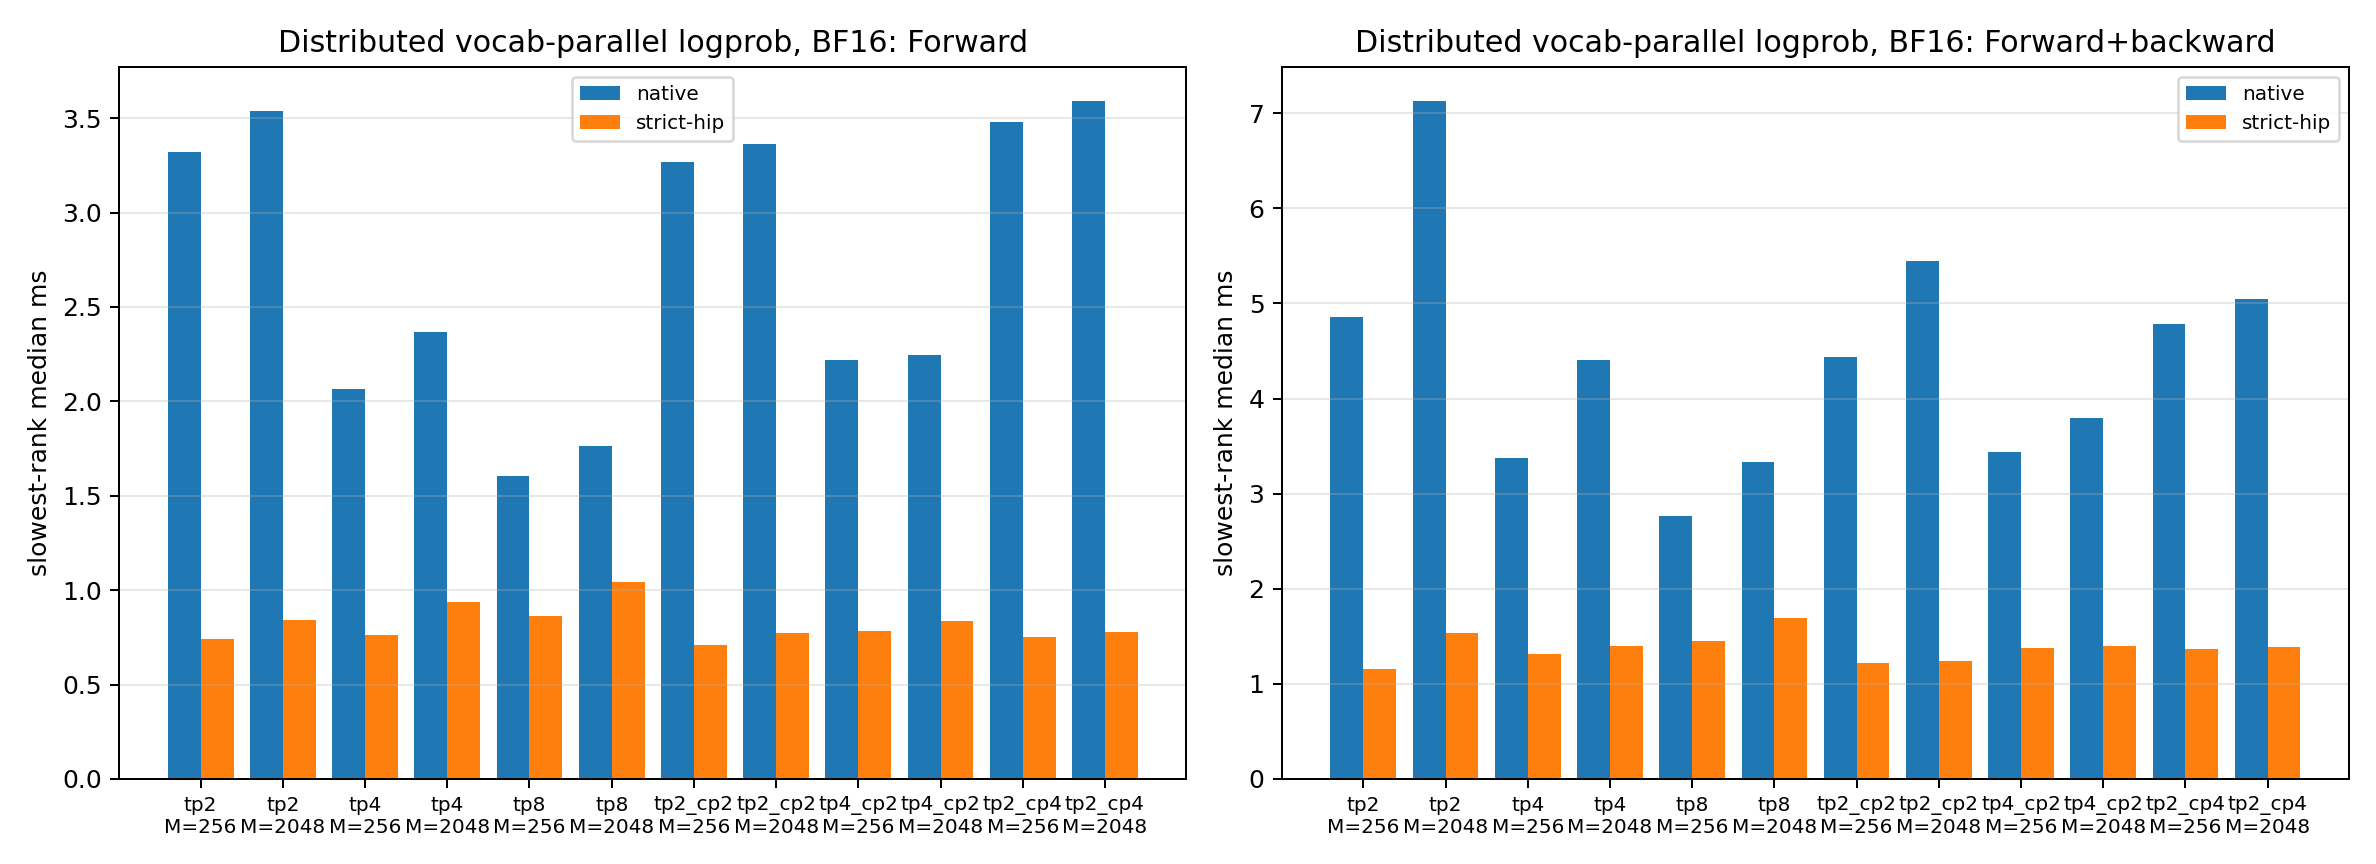
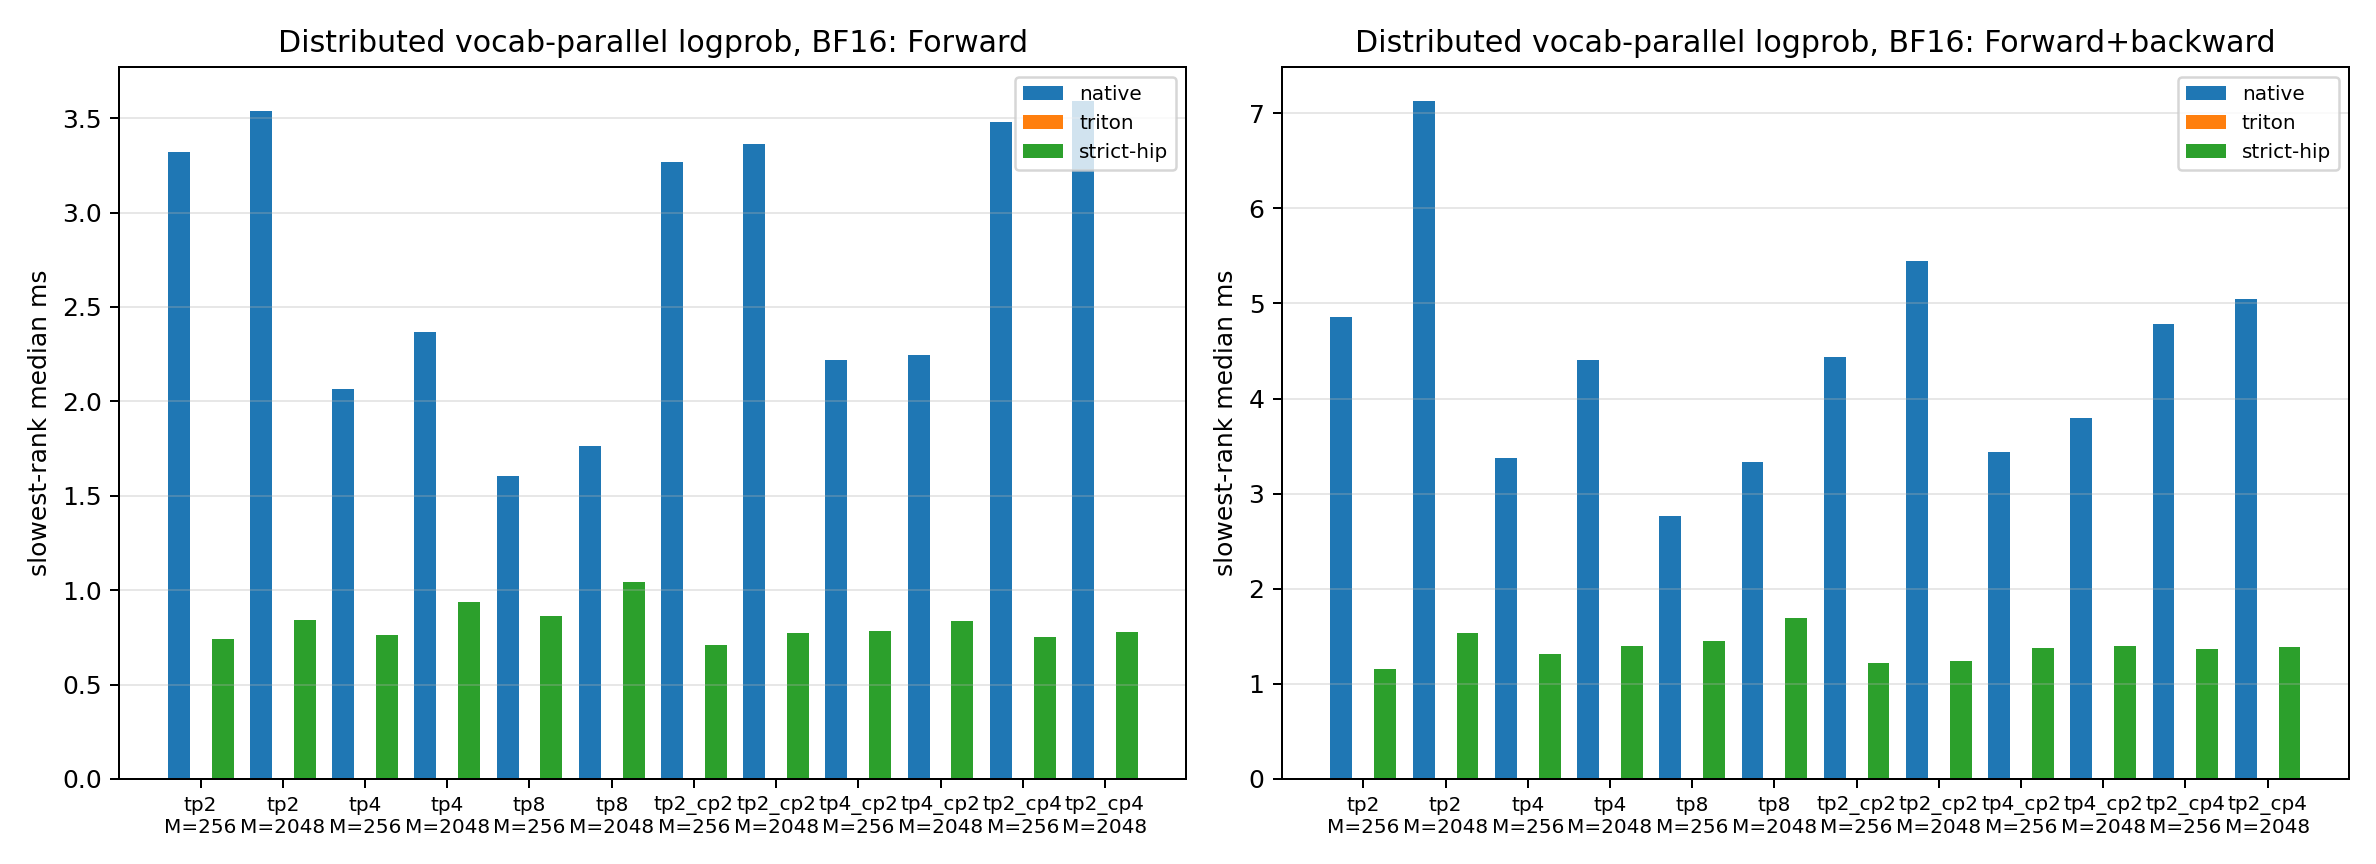
modify report

Changed region(s): [[0.0623, 0.0625, 0.4983, 0.9062], [0.5606, 0.125, 0.9655, 0.9062], [0.9032, 0.125, 0.9966, 0.2188]]

diff --git a/benchmarks/benchmark_rocm_logp.py b/benchmarks/benchmark_rocm_logp.py
@@ -840,7 +840,10 @@ PATH_DESCRIPTIONS = {
     "ws1-pytorch": (
         "`pytorch-batch-invariant-logp-ws1`, the single-shard batch-invariant PyTorch op"
     ),
-    "ws1-triton": "`triton-batch-invariant-logp-ws1`, the single-shard Triton online-softmax op",
+    "ws1-triton": (
+        "`triton-batch-invariant-logp-ws1`, the single-shard Triton online-softmax op; it has "
+        "no vocab-parallel (TP) path, so it appears only in the single-GPU results"
+    ),
     "ws2-reference": (
         "`pytorch-vocab-parallel-logp-ws2`, the WS2 vocab-parallel reference operator: a PyTorch "
         "tile loop for the per-tile FP32 `(max, sumexp)` partials, all-gather of the partials, "
@@ -922,10 +925,10 @@ def _field_ratio(
 def _range_text(values: list[float], fmt: str = "{:.1f}") -> str:
     if not values:
         return "n/a"
-    low, high = min(values), max(values)
-    if math.isclose(low, high, rel_tol=1e-3):
-        return fmt.format(low)
-    return f"{fmt.format(low)}-{fmt.format(high)}"
+    low, high = fmt.format(min(values)), fmt.format(max(values))
+    if low == high:
+        return low
+    return f"{low}-{high}"
 
 
 def _lookup(cases: list[dict[str, Any]], **match: Any) -> dict[str, Any] | None:
@@ -972,7 +975,9 @@ def _write_report(payload: dict[str, Any], output_directory: Path, style: Report
     add("- Measured paths:")
     for path in style.paths:
         add(f"  - `{style.name(path)}`: {PATH_DESCRIPTIONS[path]}.")
-    dist_notes = [DISTRIBUTED_DESCRIPTIONS[p] for p in style.paths if DISTRIBUTED_DESCRIPTIONS[p]]
+    dist_notes = [
+        DISTRIBUTED_DESCRIPTIONS.get(p, "") for p in style.paths if DISTRIBUTED_DESCRIPTIONS.get(p)
+    ]
     if dist_notes:
         add("- Distributed: one process per GPU; " + "; ".join(dist_notes) + ".")
     add(
@@ -1054,6 +1059,31 @@ def _write_report(payload: dict[str, Any], output_directory: Path, style: Report
                 f"forward+backward across {len({d['topology'] for d in distributed})} TP/CP "
                 f"topologies, at {_range_text(d_mem, '{:.2f}')}x the per-rank peak memory "
                 f"(absolute forward {_range_text(d_abs, '{:.3f}')} ms)."
+            )
+    if "ws2-rocm" in style.paths and "ws1-triton" in style.paths:
+        ratios_fwd, ratios_train = [], []
+        for dtype_name in SINGLE_DTYPES:
+            for case in single:
+                if case["path"] != "ws2-rocm" or case["dtype"] != dtype_name:
+                    continue
+                if not style.keep_tokens(case["tokens"]):
+                    continue
+                tri = _lookup(single, dtype=dtype_name, tokens=case["tokens"], path="ws1-triton")
+                if tri is None:
+                    continue
+                ratios_fwd.append(case["forward"]["median_ms"] / tri["forward"]["median_ms"])
+                ratios_train.append(
+                    case["train_fwd_bwd"]["median_ms"] / tri["train_fwd_bwd"]["median_ms"]
+                )
+        if ratios_fwd:
+            add(
+                f"- `{style.name('ws2-rocm')}` runs at {_range_text(ratios_fwd, '{:.2f}')}x the "
+                f"latency of `{style.name('ws1-triton')}` in forward and "
+                f"{_range_text(ratios_train, '{:.2f}')}x in forward+backward with the same peak "
+                "memory, while carrying the vocab-parallel contract (tile partials, all-gather, "
+                "fixed tile-order merge, vocab-domain LSE export) that the single-shard Triton op "
+                "does not provide; the gap is the operator's fixed Python/launch floor, not the "
+                "HIP kernels."
             )
     if component and "ws2-rocm" in style.paths:
         comp_speed = [

diff --git a/benchmarks/results/pr328_rocm_mi300x/report.md b/benchmarks/results/pr328_rocm_mi300x/report.md
@@ -22,6 +22,7 @@
 - Qwen3 vocabulary `V=151936` split into 64 tiles of 2374 columns; seeded logits (`randn * 2.0`), random targets, every seventh token inactive.
 - Measured paths:
   - `native`: `pytorch-vocab-parallel-logp-ws2`, the WS2 vocab-parallel reference operator: a PyTorch tile loop for the per-tile FP32 `(max, sumexp)` partials, all-gather of the partials, fixed global tile-order merge, and a PyTorch autograd backward.
+  - `triton`: `triton-batch-invariant-logp-ws1`, the single-shard Triton online-softmax op; it has no vocab-parallel (TP) path, so it appears only in the single-GPU results.
   - `strict-hip`: `rocm-vocab-parallel-logp-ws2`, the same contract, transport, and merge with two HIP kernels: `hip_deterministic_logp_tile_stats` reads the stored BF16/FP16/FP32 shard directly (8-element vector loads, no FP32 copy) and `hip_deterministic_logp_backward` produces the gradient in one fused pass.
 - Distributed: one process per GPU; the WS2 operators all-gather per-tile `(max, sumexp)` partials over RCCL and merge them in fixed global tile order; CP ranks shard tokens and never enter the merge.
 - Forward returns the selected-token logprob and the vocabulary LSE; forward+backward computes `grad_logits` for `sum(active * logp)`. The WS2 operators run with `validate=False`; the `validate=True` production entry point is measured separately.
@@ -37,8 +38,8 @@ python benchmarks/benchmark_rocm_logp.py \
   --warmup 5 \
   --samples 20 \
   --training-samples 10 \
-  --report-paths ws2-reference,ws2-rocm \
-  --rename ws2-reference=native,ws2-rocm=strict-hip \
+  --report-paths ws2-reference,ws1-triton,ws2-rocm \
+  --rename ws2-reference=native,ws1-triton=triton,ws2-rocm=strict-hip \
   --report-baseline ws2-reference \
   --table-tokens 2048 \
   --output-dir benchmarks/results/pr328_rocm_mi300x
@@ -46,8 +47,10 @@ python benchmarks/benchmark_rocm_logp.py \
 
 ## Key findings
 
+- Single GPU: `triton` is 8.90-10.79x faster than `native` in forward and 6.73-11.28x in forward+backward, with 0.15-0.33x its peak memory.
 - Single GPU: `strict-hip` is 5.97-7.23x faster than `native` in forward and 4.94-6.83x in forward+backward, with 0.15-0.33x its peak memory.
 - Distributed: `strict-hip` is 1.69-4.60x faster than `native` in forward and 1.97-4.64x in forward+backward across 6 TP/CP topologies, at 0.15x the per-rank peak memory (absolute forward 0.773-1.041 ms).
+- `strict-hip` runs at 1.49x the latency of `triton` in forward and 1.36-1.65x in forward+backward with the same peak memory, while carrying the vocab-parallel contract (tile partials, all-gather, fixed tile-order merge, vocab-domain LSE export) that the single-shard Triton op does not provide; the gap is the operator's fixed Python/launch floor, not the HIP kernels.
 - The `hip_deterministic_logp_tile_stats` kernel alone is 10.2-10.6x faster than the PyTorch tile loop and allocates 57x less transient memory (it writes only the `[tokens, 64]` FP32 partials).
 - `strict-hip` vs `native`: tile maxima are bitwise equal; sumexp partials differ only by FP32 summation order, so final outputs differ in 0-65 elements per case with relative-L2 0.0e+00-1.3e-08. Both paths are equally close to FP64.
 - Repeat bitwise: yes; batch-invariant: yes; all gradients finite: yes.
@@ -60,6 +63,7 @@ python benchmarks/benchmark_rocm_logp.py \
 | Tokens | Path | Median (ms) | p95 (ms) | Speedup vs native | Peak MiB | logp max-abs vs FP64 | LSE max-abs vs FP64 | Repeat | Batch-inv |
 |---:|---|---:|---:|---:|---:|---:|---:|:---:|:---:|
 | 2048 | native | 6.4801 | 6.7318 | 1.00× | 1245.0 | 1.557e-06 | 1.382e-06 | yes | yes |
+| 2048 | triton | 0.6005 | 0.6081 | 10.79× | 0.0 | 1.589e-06 | 1.516e-06 | yes | yes |
 | 2048 | strict-hip | 0.8964 | 0.9366 | 7.23× | 2.0 | 1.621e-06 | 1.318e-06 | yes | yes |
 
 ### Forward+backward
@@ -67,6 +71,7 @@ python benchmarks/benchmark_rocm_logp.py \
 | Tokens | Path | Median (ms) | p95 (ms) | Speedup vs native | Peak MiB | Memory vs native | Grad finite |
 |---:|---|---:|---:|---:|---:|---:|:---:|
 | 2048 | native | 12.8275 | 12.9236 | 1.00× | 7715.7 | 1.00× | yes |
+| 2048 | triton | 1.1376 | 1.1707 | 11.28× | 1187.0 | 0.15× | yes |
 | 2048 | strict-hip | 1.8781 | 1.9318 | 6.83× | 1187.1 | 0.15× | yes |
 
 ### `strict-hip` versus `native` numerics
@@ -82,6 +87,7 @@ python benchmarks/benchmark_rocm_logp.py \
 | Tokens | Path | Median (ms) | p95 (ms) | Speedup vs native | Peak MiB | logp max-abs vs FP64 | LSE max-abs vs FP64 | Repeat | Batch-inv |
 |---:|---|---:|---:|---:|---:|---:|---:|:---:|:---:|
 | 2048 | native | 6.0009 | 6.2081 | 1.00× | 58.0 | 1.747e-06 | 1.271e-06 | yes | yes |
+| 2048 | triton | 0.6741 | 0.6921 | 8.90× | 0.0 | 1.909e-06 | 1.550e-06 | yes | yes |
 | 2048 | strict-hip | 1.0045 | 1.0516 | 5.97× | 2.0 | 1.747e-06 | 1.271e-06 | yes | yes |
 
 ### Forward+backward
@@ -89,6 +95,7 @@ python benchmarks/benchmark_rocm_logp.py \
 | Tokens | Path | Median (ms) | p95 (ms) | Speedup vs native | Peak MiB | Memory vs native | Grad finite |
 |---:|---|---:|---:|---:|---:|---:|:---:|
 | 2048 | native | 12.5812 | 12.7740 | 1.00× | 7122.2 | 1.00× | yes |
+| 2048 | triton | 1.8702 | 1.9688 | 6.73× | 2374.0 | 0.33× | yes |
 | 2048 | strict-hip | 2.5475 | 2.6220 | 4.94× | 2374.1 | 0.33× | yes |
 
 ### `strict-hip` versus `native` numerics
@@ -96,6 +103,23 @@ python benchmarks/benchmark_rocm_logp.py \
 | Tokens | Mismatched elements (logp+LSE) | Relative L2 |
 |---:|---:|---:|
 | 2048 | 37 | 8.004e-09 |
+
+### `validate=True` production entry point (strict-hip, BF16)
+
+| Tokens | validate=False (ms) | validate=True (ms) | Overhead |
+|---:|---:|---:|---:|
+| 2048 | 0.8911 | 1.0743 | 1.21× |
+
+`validate=True` adds host-side target-range checks and a non-finite LSE check that synchronizes the stream; the cost is a fixed per-call overhead.
+
+## Tile-stats kernel
+
+`hip_deterministic_logp_tile_stats` computes the per-row, per-tile FP32 `(max, sumexp)` partials that the operator all-gathers and merges; the PyTorch tile loop is what `native` uses for the same step. Tile maxima are bitwise equal; sums differ only by FP32 summation order.
+
+| Logits dtype | Tokens | PyTorch tile loop (ms) | HIP kernel on FP32 (ms) | HIP kernel on stored dtype (ms) | Speedup | Loop peak MiB | HIP peak MiB | Max bitwise | sumexp max rel | Repeat |
+|---|---:|---:|---:|---:|---:|---:|---:|:---:|---:|:---:|
+| bf16 | 2048 | 5.5575 | 0.5239 | 0.4659 | 10.61× | 56.6 | 1.0 | yes | 3.64e-07 | yes |
+| fp32 | 2048 | 5.5582 | 0.5459 | 0.5364 | 10.18× | 56.6 | 1.0 | yes | 4.48e-07 | yes |
 
 ## Distributed vocab-parallel logprob (BF16, RCCL)
 
